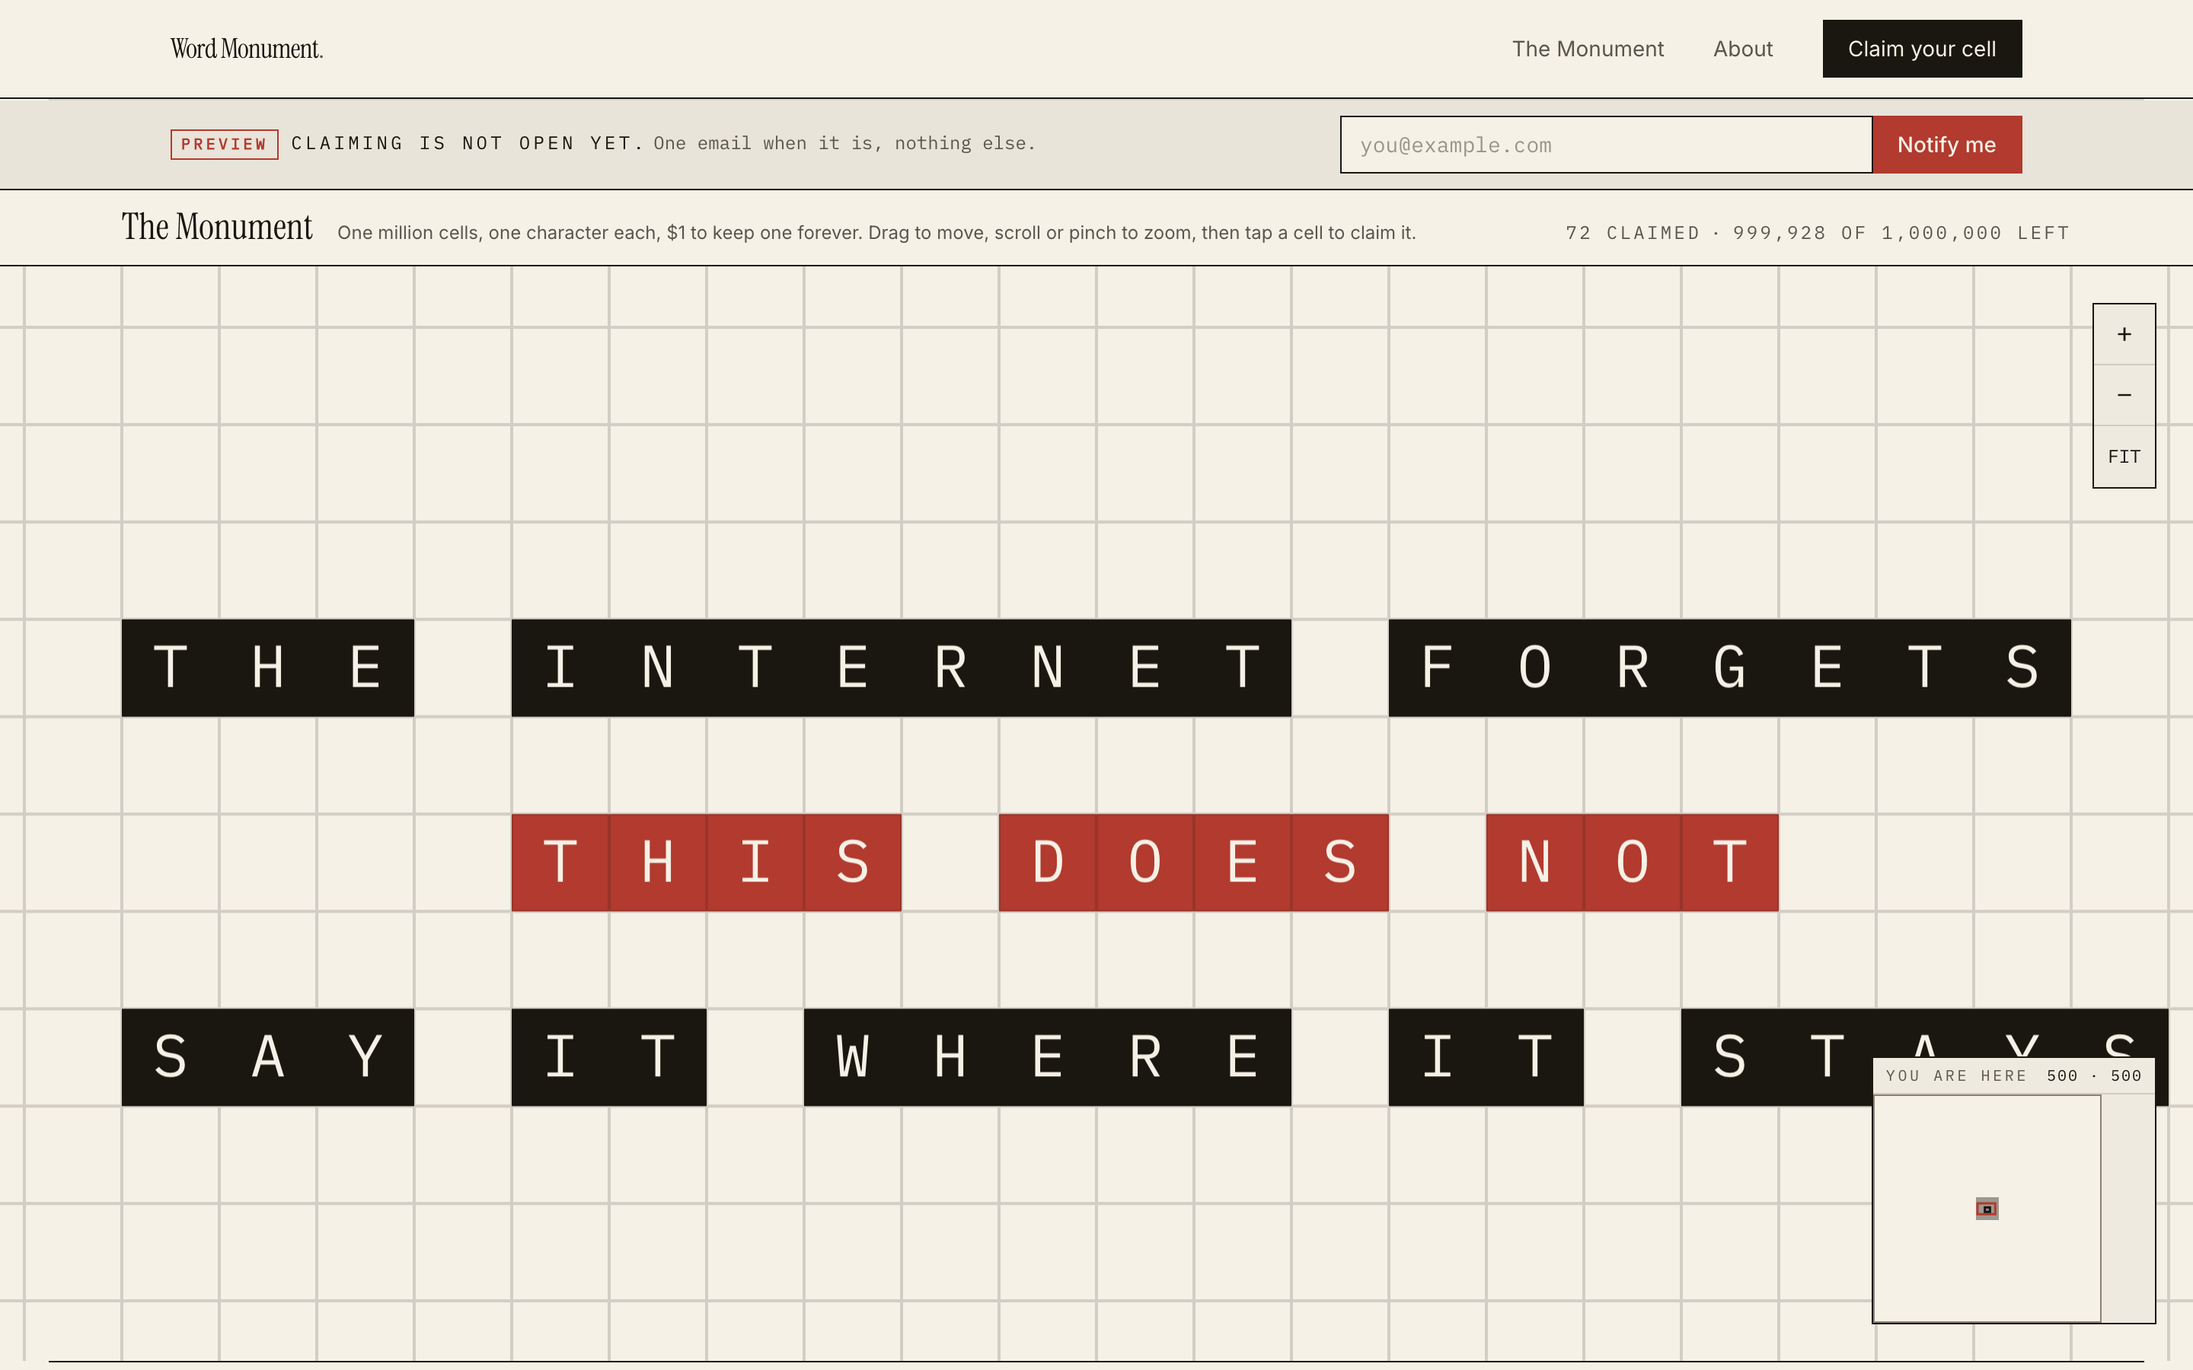
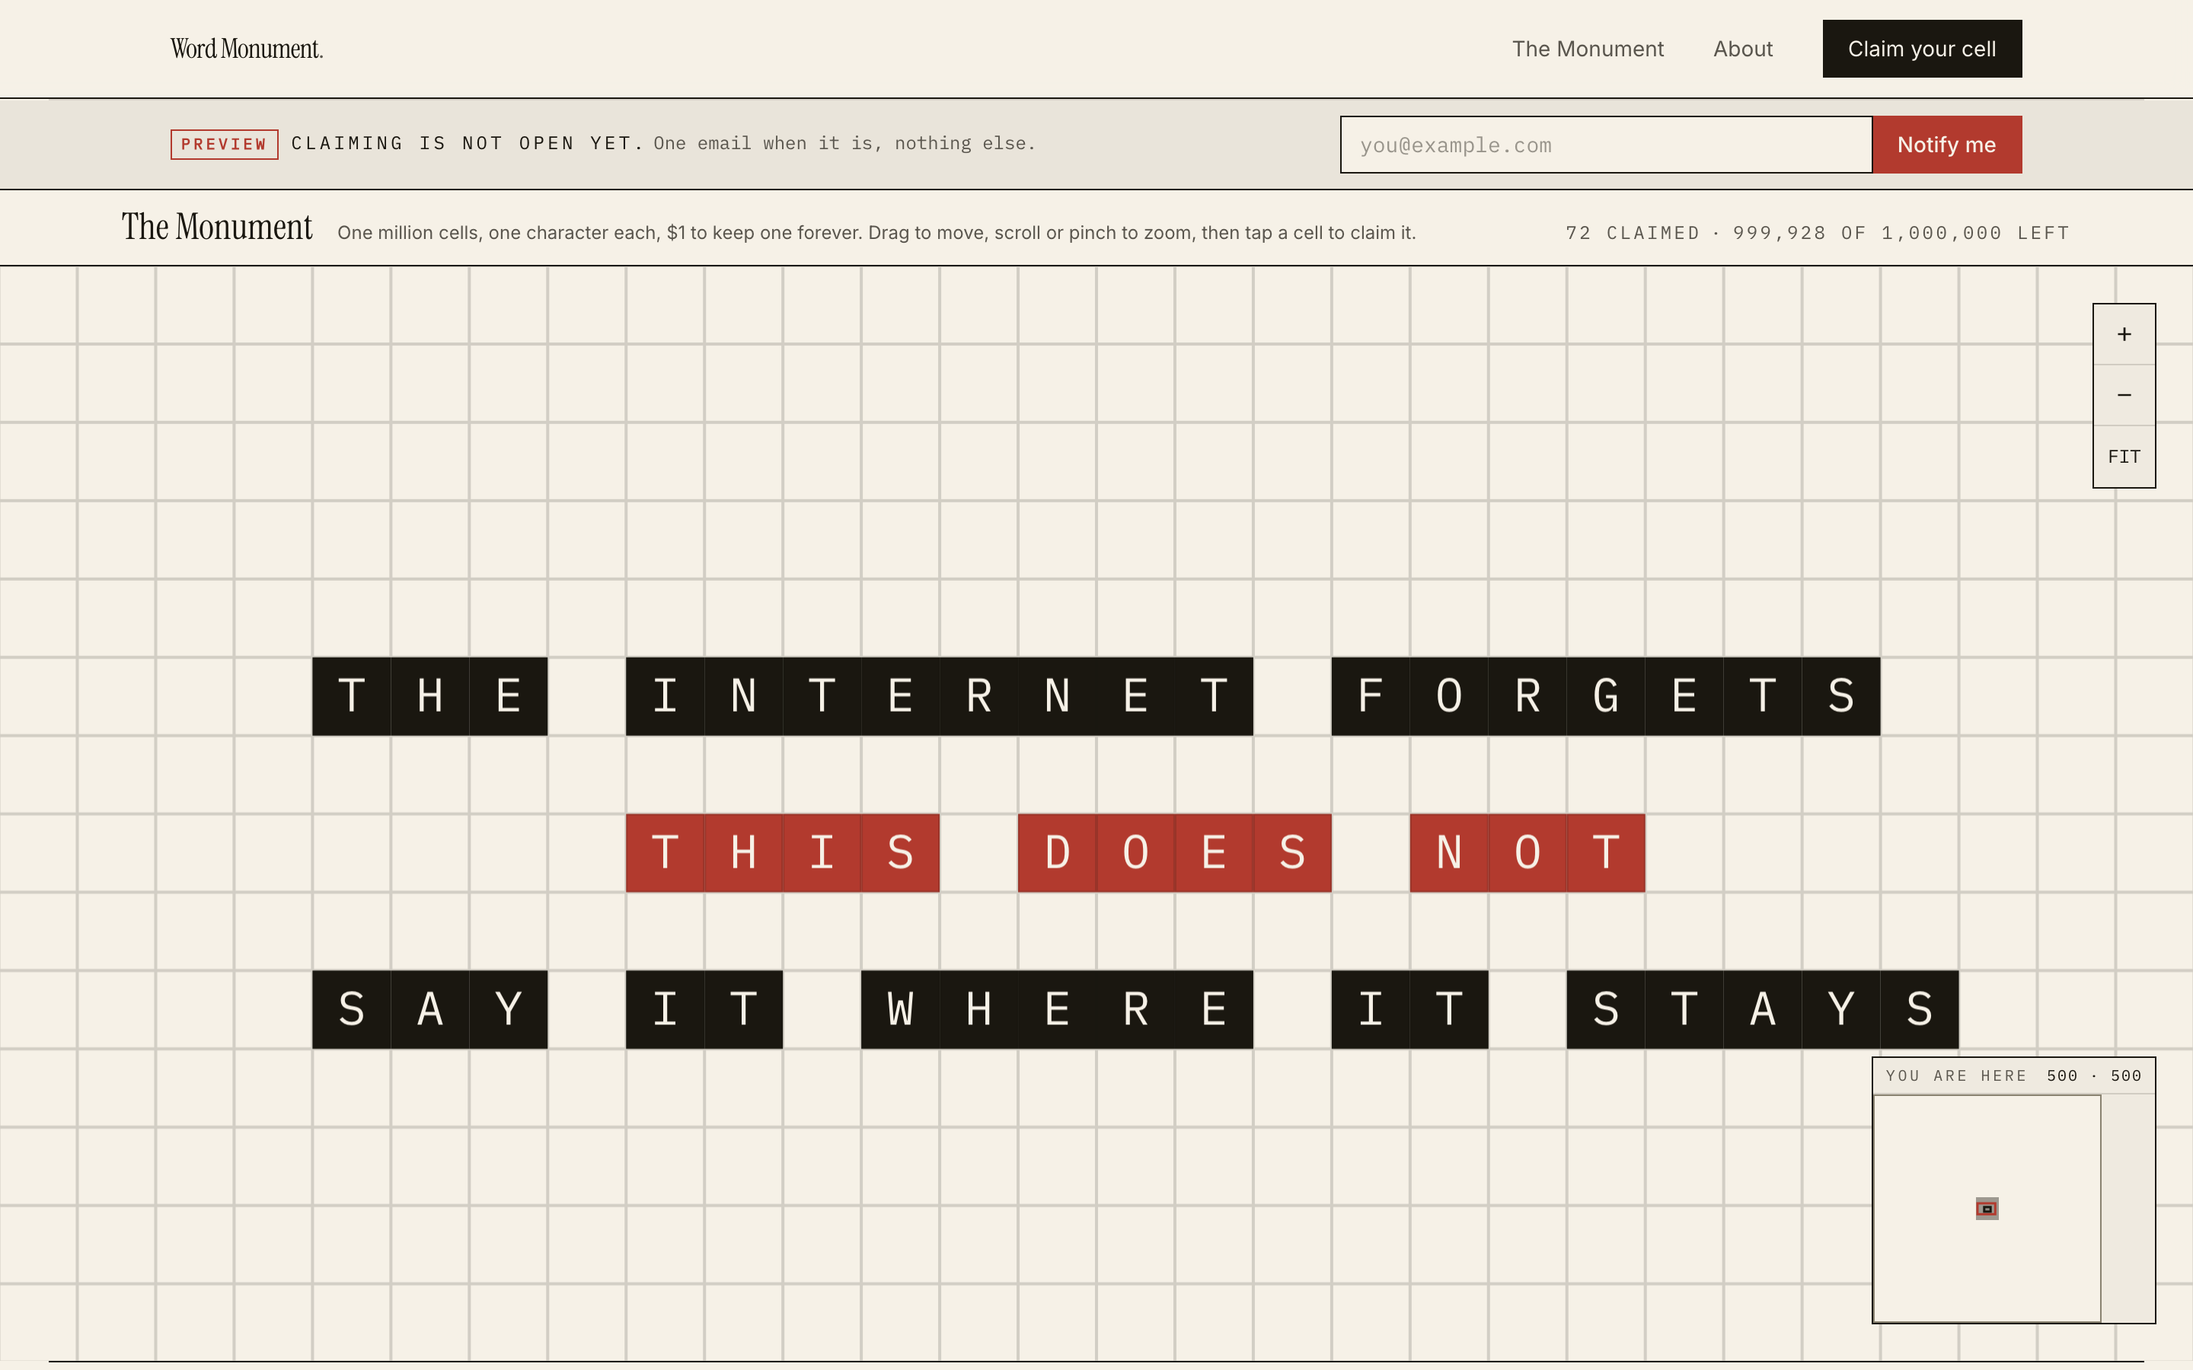
docs: correct nine false claims an adversarial audit found in the README
Fifty-eight agents read the published repo the way a hostile Hacker News reader
would. Nine things they found were true, reproducible, and would have been
falsifiable by anyone who spent a minute checking.

The worst was a screenshot. 08-share-page.png was captioned as "a share page
for a single purchase, showing the inscription, its coordinates, the amount
paid and the date it was filed" and is in fact the not-found page, reading "We
couldn't find that inscription", because /monument/share/demo has no
reservation behind it in preview. The image is deleted rather than replaced:
there has been no real purchase to photograph, and the README now says so
instead of pretending otherwise.

Second was the level-of-detail comparison, which claimed to show two zoom
levels and shipped the same file twice. 05 and 06 were byte-identical at every
commit that touched them, so the section demonstrating the renderer was
illustrated with a duplicate that one right-click would expose. 05 is
recaptured at a genuine intermediate zoom and its caption no longer contradicts
the sentence three lines above it about the 64 pixel ceiling.

The reservation TTL passage had the mechanism backwards. It said the hold and
the Stripe session are set to the same instant so the windows "cannot disagree
by construction". The code deliberately does the opposite: the session gets 35
minutes and the hold is then extended to 40, and those five minutes of slack
[…]

diff --git a/src/app/api/waitlist/route.ts b/src/app/api/waitlist/route.ts
@@ -12,6 +12,10 @@ import { readBoundedJson } from '@/lib/security/request-body'
 // timestamp, nothing else. No IP, no hash, no user agent. The IP hash below
 // is used only as a rate-limit key in the separate RATE_LIMIT namespace and
 // is never written alongside the address.
+//
+// Reading the list back needs `wrangler kv key list --remote`; without the flag
+// wrangler reads local dev storage and reports an empty list, which looks
+// exactly like nobody having signed up. See docs/SETUP.md.
 
 const RATE_LIMIT_MAX_REQUESTS = 5
 const RATE_LIMIT_WINDOW_SECONDS = 600

diff --git a/README.md b/README.md
@@ -48,6 +48,12 @@ state, which means the inscriptions you see are demonstration data, not sales.
 **No real money has moved through this system.** Claiming switches on when the
 backend is connected.
 
+The strip across the top of the screenshots says so in the product too, and
+takes an email so anyone who wants to be told can be. It is gated on
+`!isSupabaseConfigured()`, which Next inlines at build time, so connecting the
+backend and rebuilding removes it from every page at once rather than leaving a
+dead form behind.
+
 ---
 
 ## The rules
@@ -76,7 +82,7 @@ is a placement problem, not a form: drag the whole inscription somewhere that
 means something, recolor it, drop cells you do not want, and check out. Spaces
 between words are free, so `IN MEMORY OF NONNA` is 15 paid cells, not 18.
 
-![The monument grid with IN MEMORY OF NONNA placed as selected cells. A tray at the bottom lists each cell with its coordinates and character, a RECOLOR ALL row of eight palette swatches, and a summary reading 15 cells selected, $15.00, with Reposition and Review and Checkout buttons.](docs/images/13-placement-flow.png)
+![The monument grid with FOR NONNA placed as selected cells. A tray at the bottom lists each cell with its coordinates and character, a RECOLOR ALL row of eight palette swatches, and a summary reading 8 cells selected, $8.00, with Reposition and Review and Checkout buttons.](docs/images/13-placement-flow.png)
 
 The homepage leads with the monument itself rather than a description of it.
 The counters read `monument_stats`, a single denormalized row bumped inside
@@ -91,7 +97,11 @@ per-purchase card are rendered by the app in its own typefaces rather than
 being static exports. The per-purchase card is a certificate: the inscription,
 the coordinates, the amount, the filing date.
 
-![A share page for a single purchase, showing the inscription, its coordinates on the grid, the amount paid and the date it was filed.](docs/images/08-share-page.png)
+There is no screenshot of a real share page here, because there has not been a
+real purchase to make one from. Visiting `/monument/share/<id>` with an id that
+does not exist renders the not-found state, which is the honest thing to show
+and a useless thing to photograph. The two cards below are real output from the
+running app.
 
 <table>
   <tr>
@@ -129,13 +139,17 @@ radius is different, though. Sharing a lock costs colocated buyers a few
 milliseconds. Sharing a release path would have cost them their cells.
 Migration `0007_reserve_ip_advisory_lock.sql`, if you want to check.
 
-**The reservation TTL and the Stripe session share one clock.** Stripe enforces
-a floor on how soon a Checkout Session may expire, and it is longer than the
-ten-minute hold you would naively write. A short database hold behind a longer
-payment page is a double-sell with extra steps: the hold expires, someone else
-buys the cell, and the first payment still lands. Here the hold is 35 minutes
-and the Checkout Session `expires_at` is set to the same instant, so the two
-windows cannot disagree by construction.
+**The database hold must outlive the payment page, never the other way round.**
+Stripe enforces a floor on how soon a Checkout Session may expire, and it is
+longer than the ten-minute hold you would naively write. A short hold behind a
+longer payment page is a double-sell with extra steps: the hold lapses, someone
+else buys the cell, and the first payment still lands on a cell that is gone.
+So the Checkout Session is given a 35 minute `expires_at`, and the hold behind
+it is then extended to 40: `RESERVATION_TTL_SECONDS + CHECKOUT_HOLD_SLACK_SECONDS`,
+2100 plus 300. The five minutes of slack are the whole point. Align the two
+exactly and a payment landing in the last second of the window races the sweep
+that is releasing the cell at the same instant. The cell stays held until after
+the page it belongs to is already dead.
 
 **The webhook is the only thing that marks cells sold.** It verifies Stripe's
 HMAC signature before parsing anything, and it is idempotent: every event id
@@ -240,7 +254,7 @@ decide what you can read.
 <table>
   <tr>
     <td width="50%"><img src="docs/images/04-monument-default.png" alt="The monument at default zoom, showing scattered inscriptions across a wide area of empty grid with a minimap in the corner."><br><em>Default zoom, Tier 3 with glyphs.</em></td>
-    <td width="50%"><img src="docs/images/05-monument-zoomed.png" alt="The monument zoomed part of the way in, with inscriptions larger and beginning to resolve into readable words."><br><em>Zoomed partway in.</em></td>
+    <td width="50%"><img src="docs/images/05-monument-zoomed.png" alt="The same region zoomed in, with each cell and its glyph roughly twice the size and less of the surrounding grid in frame."><br><em>Zoomed in, between the default and the 64 pixel ceiling.</em></td>
   </tr>
 </table>
 
@@ -271,7 +285,7 @@ actually gets opened.
 
 <table>
   <tr>
-    <td width="50%"><img src="docs/images/09-mobile-home.png" alt="The Word Monument homepage on an iPhone, with the grid banner at the top and the headline A monument built one word at a time below it."></td>
+    <td width="50%"><img src="docs/images/09-mobile-home.png" alt="The Word Monument homepage on an iPhone. The preview strip with its notify form sits under the header, then the grid banner, then the hero headline, whose wording depends on which A/B variant was served."></td>
     <td width="50%"><img src="docs/images/10-mobile-monument.png" alt="The monument grid on an iPhone, zoomed in with large readable letters, zoom controls on the right and the minimap at the bottom."></td>
   </tr>
 </table>
@@ -280,12 +294,15 @@ actually gets opened.
 
 ## Problem 4: the public key could have erased the grid
 
-Row Level Security is deny-all on every base table. The only public read surface
-is one explicit column-allowlist `VIEW`, `cells_public`, so a column added in a
-future migration is invisible to anonymous readers by default rather than
-leaking the moment somebody forgets to write a policy. Everything that writes
-goes through `SECURITY DEFINER` functions called with the service role, from the
-server, never from the browser.
+Row Level Security is deny-all on every base table. The cells themselves are
+readable only through one explicit column-allowlist `VIEW`, `cells_public`, so a
+column added to `cells` in a future migration is invisible to anonymous readers
+by default rather than leaking the moment somebody forgets to write a policy.
+Two aggregate tables, `tile_summary` and `monument_stats`, are also readable
+directly, by a `SELECT`-only grant plus a `SELECT`-only policy: they hold
+nothing but counts, and the grid needs them on the first paint. Everything that
+writes goes through `SECURITY DEFINER` functions called with the service role,
+from the server, never from the browser.
 
 That is the design. The reason it is written that way is a finding, and the
 finding is the most uncomfortable thing in this repo.
@@ -304,15 +321,23 @@ project came to shipping a grid that a stranger with a key printed in the
 JavaScript bundle could have deleted.
 
 There are no third-party analytics, no ad pixels, and no cookies beyond the
-admin session. There is exactly one piece of first-party measurement, and
-pretending otherwise would be a lie you could catch in thirty seconds: the
-homepage A/B tests its headline, so `/api/hero/impression` records which variant
-was shown and `reservation_hero_variant` records which variant a completed
-purchase came from. That is two of the eleven tables and one of the nine routes.
-The comment at the top of that route file calls it low-stakes analytics, which
-is what it is. Buyer IPs are never stored raw, only as HMACs keyed by a
-server-side secret, which is what makes rate limiting and per-IP hold caps
-possible without keeping a list of who visited.
+admin session. Two things are collected first-party, and pretending otherwise
+would be a lie you could catch in thirty seconds.
+
+The homepage A/B tests its headline, so `/api/hero/impression` records which
+variant was shown and `reservation_hero_variant` records which variant a
+completed purchase came from. That is two of the eleven tables and one of the
+eleven routes. The comment at the top of that route file calls it low-stakes
+analytics, which is what it is.
+
+The other is the notify list, which exists only while the site is in preview.
+`/api/waitlist` writes the address you typed and the date, into its own
+Cloudflare KV namespace, and nothing else lands beside it: not your IP, not a
+hash of it, not a user agent.
+
+Buyer IPs are never stored raw anywhere, only as HMACs keyed by a server-side
+secret, which is what makes rate limiting and per-IP hold caps possible without
+keeping a list of who visited.
 
 ---
 
@@ -404,13 +429,13 @@ finding and the issue tracker is open.
 
 | | |
 |---|---|
-| TypeScript and TSX files in `src/` | 114 |
+| TypeScript and TSX files in `src/` | 116 |
 | Lines in `src/` | about 12,000 |
 | SQL migrations | 13, totalling 1,765 lines |
 | Postgres functions | 11 |
 | Tables | 11 |
-| API routes | 9 |
-| React components | 32 |
+| API routes | 11 |
+| React components | 33 |
 | **Runtime dependencies** | **6** |
 | Worker bundle, gzipped | 2.2 MB |
 
@@ -434,7 +459,7 @@ is the cautionary tale that made the bet feel expensive.
 | Database | Supabase Postgres | The concurrency model is row locks and `SECURITY DEFINER` functions, which wants a real Postgres |
 | Payments | Stripe hosted Checkout | Card data never touches this codebase, and the hosted page is the one thing buyers already trust |
 | Styling | Tailwind v4, CSS-first | No config file, tokens live in CSS where the design system does |
-| Cache | R2 plus two KV namespaces plus the edge Cache API | ISR in R2, rate limiting in one KV, the Next cache in another, deliberately separate so an incident in one is not confused with the other in logs |
+| Cache | R2 plus three KV namespaces plus the edge Cache API | ISR in R2, the Next cache in one KV, rate limiting in another, the notify list in a third, deliberately separate so an incident in one is not confused with the others in logs |
 | State | A hand-rolled store on `useSyncExternalStore` | The selection is a Set and a subscribe function; a state library would be more code than the state |
 | Auth | None for buyers, one password for the admin | Accounts are a database of emails waiting to leak, and the product does not need them |
 
@@ -464,13 +489,15 @@ There is deliberately **no purchases table**. `reservation_id` is not cleared on
 sale, so it survives as the purchase-grouping key for success pages, share
 cards and highlights.
 
-The only surface an anonymous client can read is the `cells_public` view, which
-lists its columns explicitly.
+An anonymous client can read the `cells_public` view, which lists its columns
+explicitly, plus the two aggregate tables `tile_summary` and `monument_stats`,
+which hold only counts. Nothing else.
 
 ### Routes and jobs
 
-Nine API routes: `reserve`, `checkout`, `reservation/[id]`, `grid`,
-`webhooks/stripe`, `reports`, `hero/impression`, and two cron endpoints.
+Eleven API routes: `reserve`, `checkout`, `reservation/[id]`, `grid`,
+`webhooks/stripe`, `reports`, `hero/impression`, `waitlist`,
+`share-image/[reservationId]`, and two cron endpoints.
 
 Two cron triggers on the Worker, which is also why `main` points at a
 `custom-worker.ts` rather than OpenNext's generated entry: OpenNext only exports
@@ -527,8 +554,11 @@ $5, a date written out is $10, a short sentence is around $40. Spaces are free.
 
 **What stops it all being deleted next year?**
 Less than you would like, honestly: a public promise, the terms of service, and
-the fact that the entire codebase and its history are in this repo for anyone to
-fork.
+the fact that the entire codebase and its history are readable here, so the
+design outlives the operator even if the domain does not. Note that this repo
+carries no licence file, which means default copyright applies and you may read
+it but not reuse it. That is an omission rather than a position, and it will be
+resolved one way or the other before this is promoted anywhere.
 
 **What happens when it sells out?**
 It closes to new purchases and stays up. Selling out is the finished state, not
@@ -562,7 +592,14 @@ died the moment somebody ran it against a real Postgres.
 
 ---
 
-The commit history is the honest build log, arguments with reviewers included.
+From the second commit onward the history is the real build log, arguments with
+reviewers included: `fix!: revert the per-IP hold release, it could destroy a
+stranger's purchase` is Case One above, landing as it happened. The first commit
+is not. It is a single 148-file, 24,949-line drop, because the history was
+rewritten before publication to strip the author's name and email out of it, and
+squashing was the price of that. Worth saying plainly, since one click on the
+Commits tab shows it.
+
 The author is deliberately anonymous, and the code is public so the promise
 above can be checked rather than trusted. If you write something on the monument
 that means something, I would genuinely like to know the story:

diff --git a/src/app/_fonts/LICENSE.md b/src/app/_fonts/LICENSE.md
@@ -1,0 +1,14 @@
+# Fonts in this directory
+
+Both files are redistributed here under the SIL Open Font License 1.1, which
+requires the licence to travel with the font. They are embedded as base64 into
+the OG image routes rather than fetched at runtime, because Satori's remote
+image and font fetching does not work reliably under Cloudflare Workers.
+
+- **InstrumentSerif-Regular.woff**: Instrument Serif, by Rodrigo Fuenzalida
+  and Jordan Egstad. https://github.com/Instrument/instrument-serif
+- **IBMPlexMono-Regular.woff**: IBM Plex Mono, by IBM.
+  https://github.com/IBM/plex
+
+The full licence text is available at https://openfontlicense.org and in each
+upstream repository above. Both are used unmodified.

diff --git a/docs/SETUP.md b/docs/SETUP.md
@@ -87,7 +87,7 @@ npm run ship
    the id below is the one bound in `wrangler.toml`):
 
    ```bash
-   npx wrangler kv key list --namespace-id=9ddaee6a0cc546e5afa2db16fd486d60 \
+   npx wrangler kv key list --remote --namespace-id=9ddaee6a0cc546e5afa2db16fd486d60 \
      | python3 -c "import json,sys;[print(k['name'][6:]) for k in json.load(sys.stdin) if k['name'].startswith('email:')]"
    ```
 
